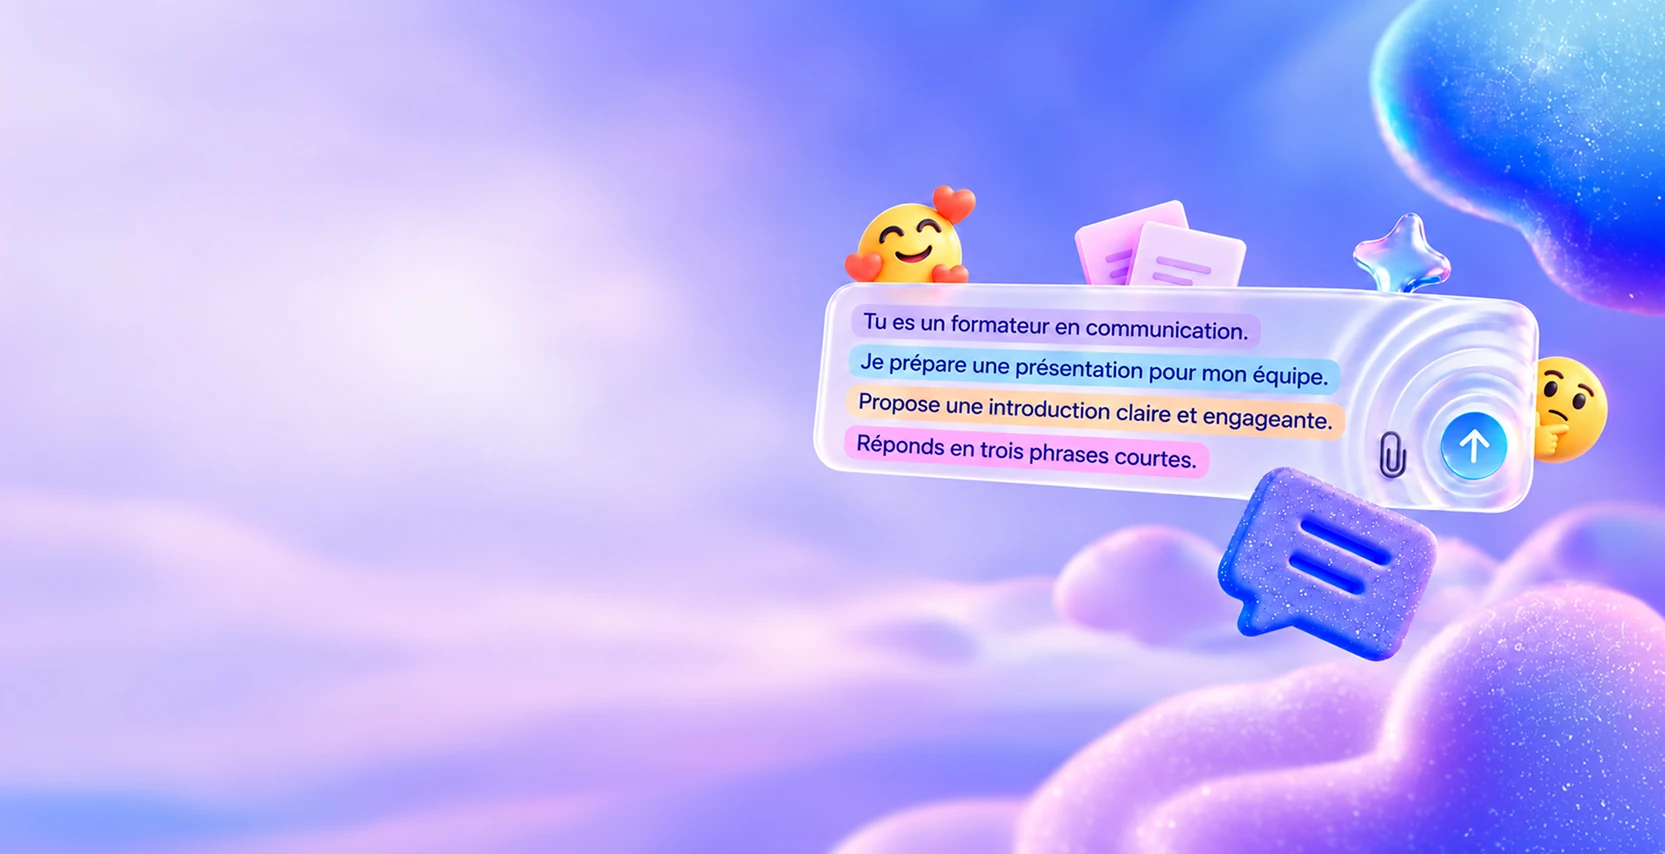
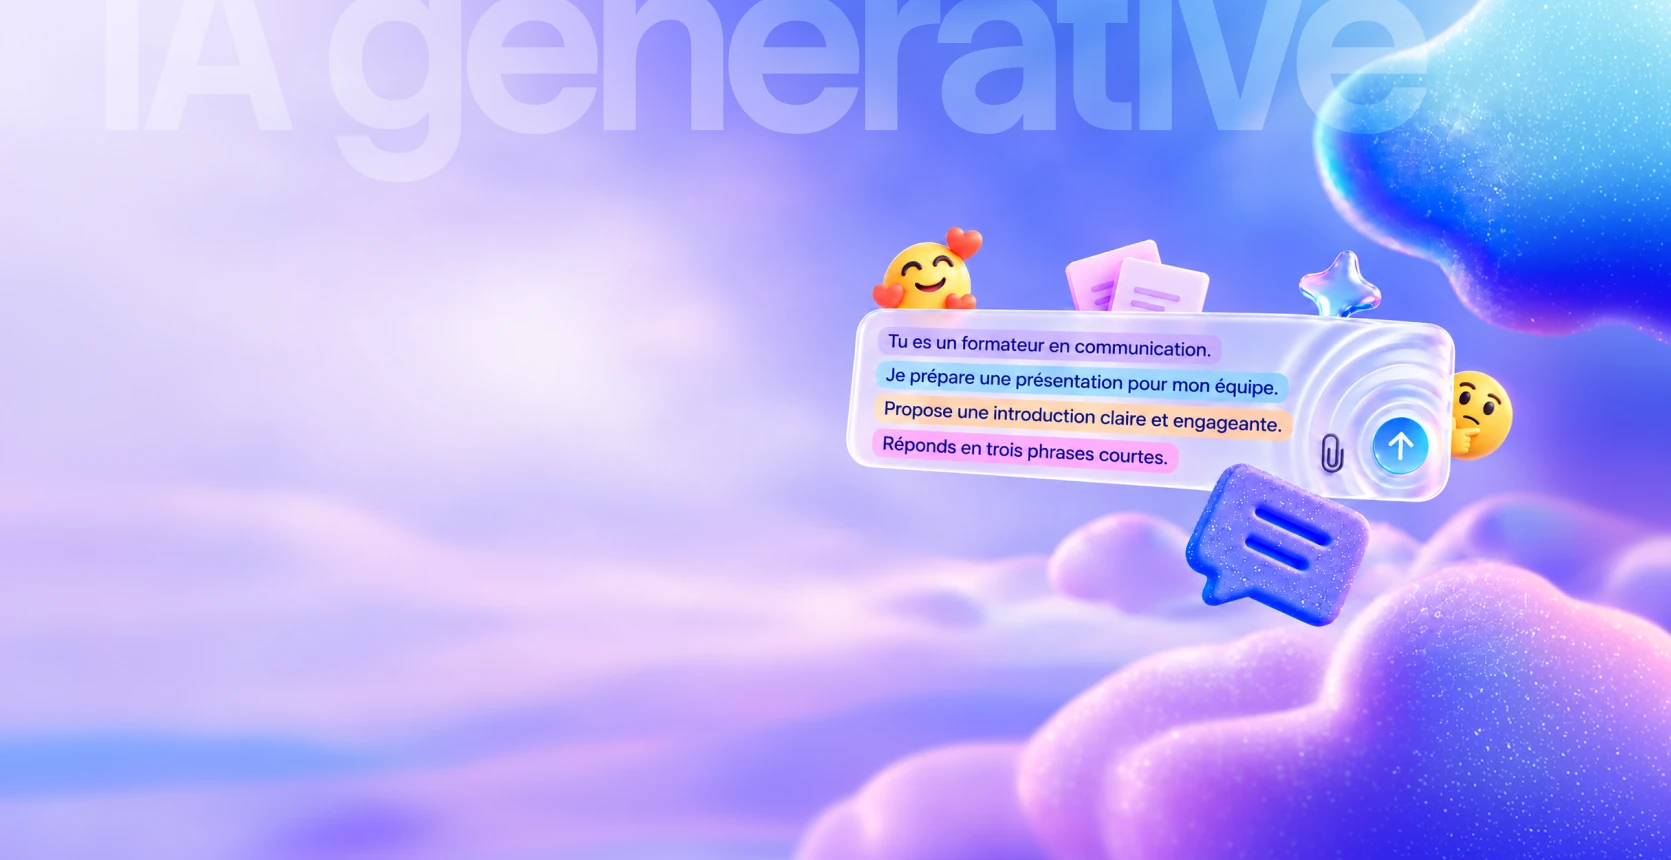
Module 2 : nouvelle image d'accueil (modules3-IA-2.png)
- accueil-module2.webp refaite depuis modules3-IA-2.png (composition plus petite, filigrane
  « IA générative » compris dans l'image) ; le filigrane HTML est retiré pour ne pas le doubler.
- accueil.js : réglage facultatif data-keep (abscisse d'un détail à garder visible à gauche) ;
  sur les écrans 16:10, l'image glisse un peu pour que le « I » de « IA » ne soit pas coupé.
  Le module 1 ne le règle pas : rien ne change pour lui.

Claude-Session: https://claude.ai/code/session_017mfsq3pa8nXSAEZhLRvV4A

diff --git a/structure-prompt/index.html b/structure-prompt/index.html
@@ -5,11 +5,11 @@
   <meta name="viewport" content="width=device-width, initial-scale=1">
   <title>Module 2 · La structure d’un prompt</title>
   <link rel="preload" href="../assets/img/02.png" as="image">
-  <link rel="stylesheet" href="../premiers-pas/app.css?v=20261014b">
-  <link rel="stylesheet" href="../premiers-pas/gris.css?v=20261014b">
-  <link rel="stylesheet" href="../premiers-pas/accueil.css?v=20261014b">
-  <link rel="stylesheet" href="../premiers-pas/simple.css?v=20261014b">
-  <link rel="stylesheet" href="app.css?v=20261014b">
+  <link rel="stylesheet" href="../premiers-pas/app.css?v=20261014c">
+  <link rel="stylesheet" href="../premiers-pas/gris.css?v=20261014c">
+  <link rel="stylesheet" href="../premiers-pas/accueil.css?v=20261014c">
+  <link rel="stylesheet" href="../premiers-pas/simple.css?v=20261014c">
+  <link rel="stylesheet" href="app.css?v=20261014c">
 </head>
 <body>
 
@@ -51,14 +51,12 @@
 </svg>
 
 <!-- ============ Accueil : posé par-dessus l'application (la barre d'outils reste visible) jusqu'à « Commencer » (accueil.js) ============ -->
-<div class="acc" data-acc data-forms=".49">
+<div class="acc" data-acc data-forms=".505" data-keep=".062">
   <main class="hero" data-acc-hero>
-    <!-- l'image (module2.png, rognée de ses bords transparents) : plein cadre, calée à droite, fixe -->
+    <!-- l'image (modules3-IA-2.png, avec son filigrane « IA générative ») : plein cadre, calée à droite, fixe -->
     <div class="acc-bg" aria-hidden="true">
-      <div class="par par-back"><img class="back" data-acc-back src="../assets/img/accueil-module2.webp" width="1665" height="854" alt="" decoding="async"></div>
+      <div class="par par-back"><img class="back" data-acc-back src="../assets/img/accueil-module2.webp?v=2" width="1671" height="860" alt="" decoding="async"></div>
     </div>
-    <!-- le filigrane, en haut, comme sur la maquette -->
-    <p class="acc-mark" aria-hidden="true">IA générative</p>
     <div class="copy" data-acc-num="Module 2">
       <img class="logos" src="../assets/img/logos.png" width="228" height="56" alt="ChatGPT, Claude, Le Chat de Mistral et Gemini">
       <h1 class="title"><span class="hl hl-1">Structurer</span><br><span class="hl hl-2">efficacement</span><br><span class="hl hl-2">un prompt</span></h1>
@@ -161,9 +159,9 @@
 
 <script src="../assets/audio/sous-titres.js"></script>
 <script src="../assets/audio/mots.js"></script>
-<script src="../premiers-pas/orb.js?v=20261014b"></script>
-<script src="../premiers-pas/particules.js?v=20261014b"></script>
-<script src="../premiers-pas/accueil.js?v=20261014b"></script>
-<script src="app.js?v=20261014b"></script>
+<script src="../premiers-pas/orb.js?v=20261014c"></script>
+<script src="../premiers-pas/particules.js?v=20261014c"></script>
+<script src="../premiers-pas/accueil.js?v=20261014c"></script>
+<script src="app.js?v=20261014c"></script>
 </body>
 </html>

diff --git a/premiers-pas/accueil.js b/premiers-pas/accueil.js
@@ -19,6 +19,7 @@
   var still = window.matchMedia && matchMedia("(prefers-reduced-motion: reduce)").matches;
   var IW = +back.getAttribute("width") || 1665, IH = +back.getAttribute("height") || 854;      // les calques, à la même taille
   var FORMS = +root.dataset.forms || .485;   // abscisse (part de la largeur) où commencent les formes : le texte reste à gauche
+  var KEEP = +root.dataset.keep || 0;        // facultatif : abscisse (part de la largeur) d'un détail de l'image à garder visible à gauche (un filigrane)
   var alive = true, geo = null;
 
   // notre orbe, dans le bouton « Commencer » : dessinée à 64 px puis mise à l'échelle de sa pastille
@@ -51,6 +52,7 @@
     } else {                                                   // plein cadre, calée à droite
       s = Math.max(W / IW, H / IH); bw = IW * s; bh = IH * s;
       bx = W - bw; by = (H - bh) / 2;
+      if (KEEP) bx = Math.min(0, Math.max(bx, W * .02 - KEEP * bw));   // l'image glisse un peu à droite (sans quitter le bord droit) pour garder le filigrane entier
       var need = textRight() + Math.max(40, W * .03);          // les formes commencent après le texte
       if (bx + FORMS * bw < need) bx = Math.min(need - FORMS * bw, W * .3);
     }

diff --git a/README.md b/README.md
@@ -162,8 +162,8 @@ phrase d'exemple à la machine à écrire, ce qui s'allume au moment où la voix
 styles et scripts partagés : `premiers-pas/app.css`, `gris.css`, `accueil.css`, `simple.css`, `orb.js`, `particules.js`,
 `accueil.js` ; styles propres : `structure-prompt/app.css`.
 
-- Accueil d'après la maquette : `assets/img/accueil-module2.webp` (tirée de `module2.png`) en plein cadre, fixe, calée
-  à droite ; le filigrane « IA générative » en haut ; les logos des assistants ; « Structurer / efficacement / un prompt »
+- Accueil d'après la maquette : `assets/img/accueil-module2.webp` (tirée de `modules3-IA-2.png`, filigrane « IA générative »
+  compris) en plein cadre, fixe, calée à droite ; les logos des assistants ; « Structurer / efficacement / un prompt »
   sur trois bandeaux (bleu, puis lilas) ; « Dans ce module, vous apprendrez de quoi est composé un prompt, et comment le
   structurer vous-même. » ; « Commencer » (ou « Suivant »). Ouverture en particules, « Module 2 » au centre.
 - 12 étapes, voix et textes inchangés : une demande trop vague (envoyer la demande préparée), ce que l'IA a inventé
